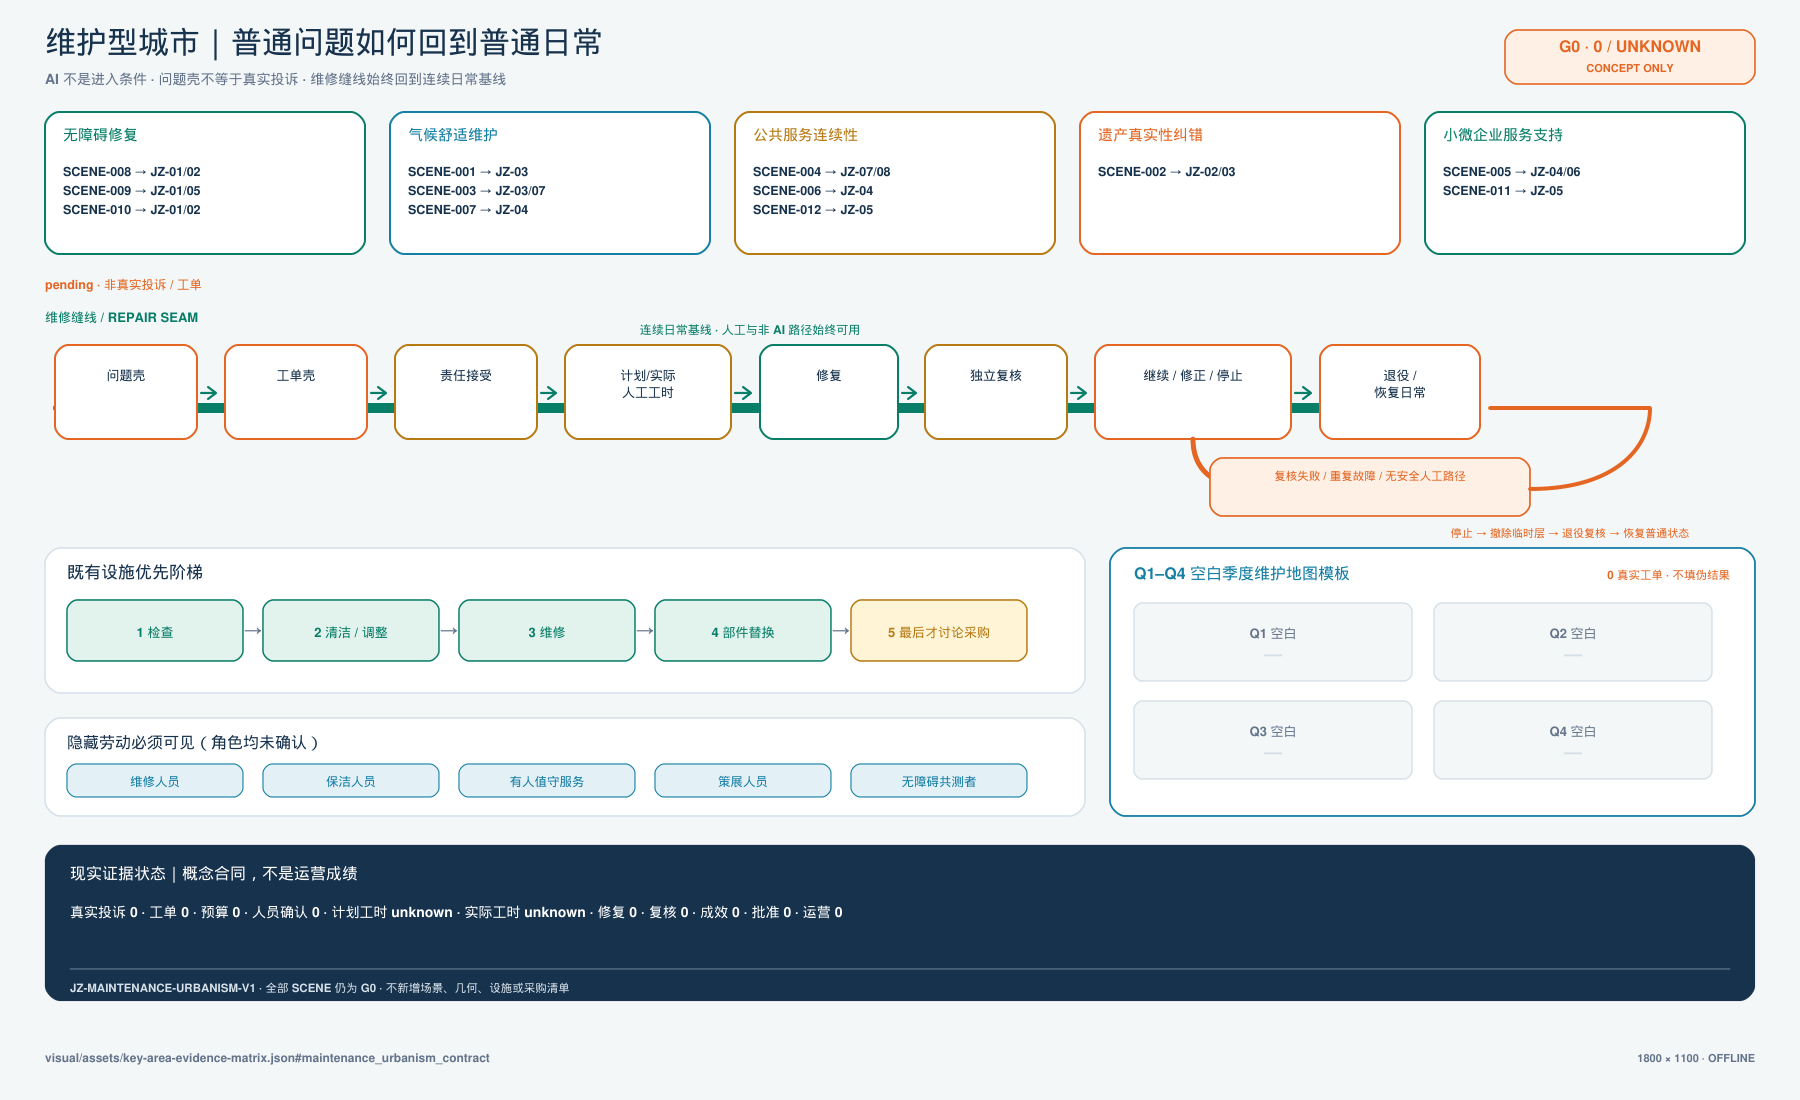
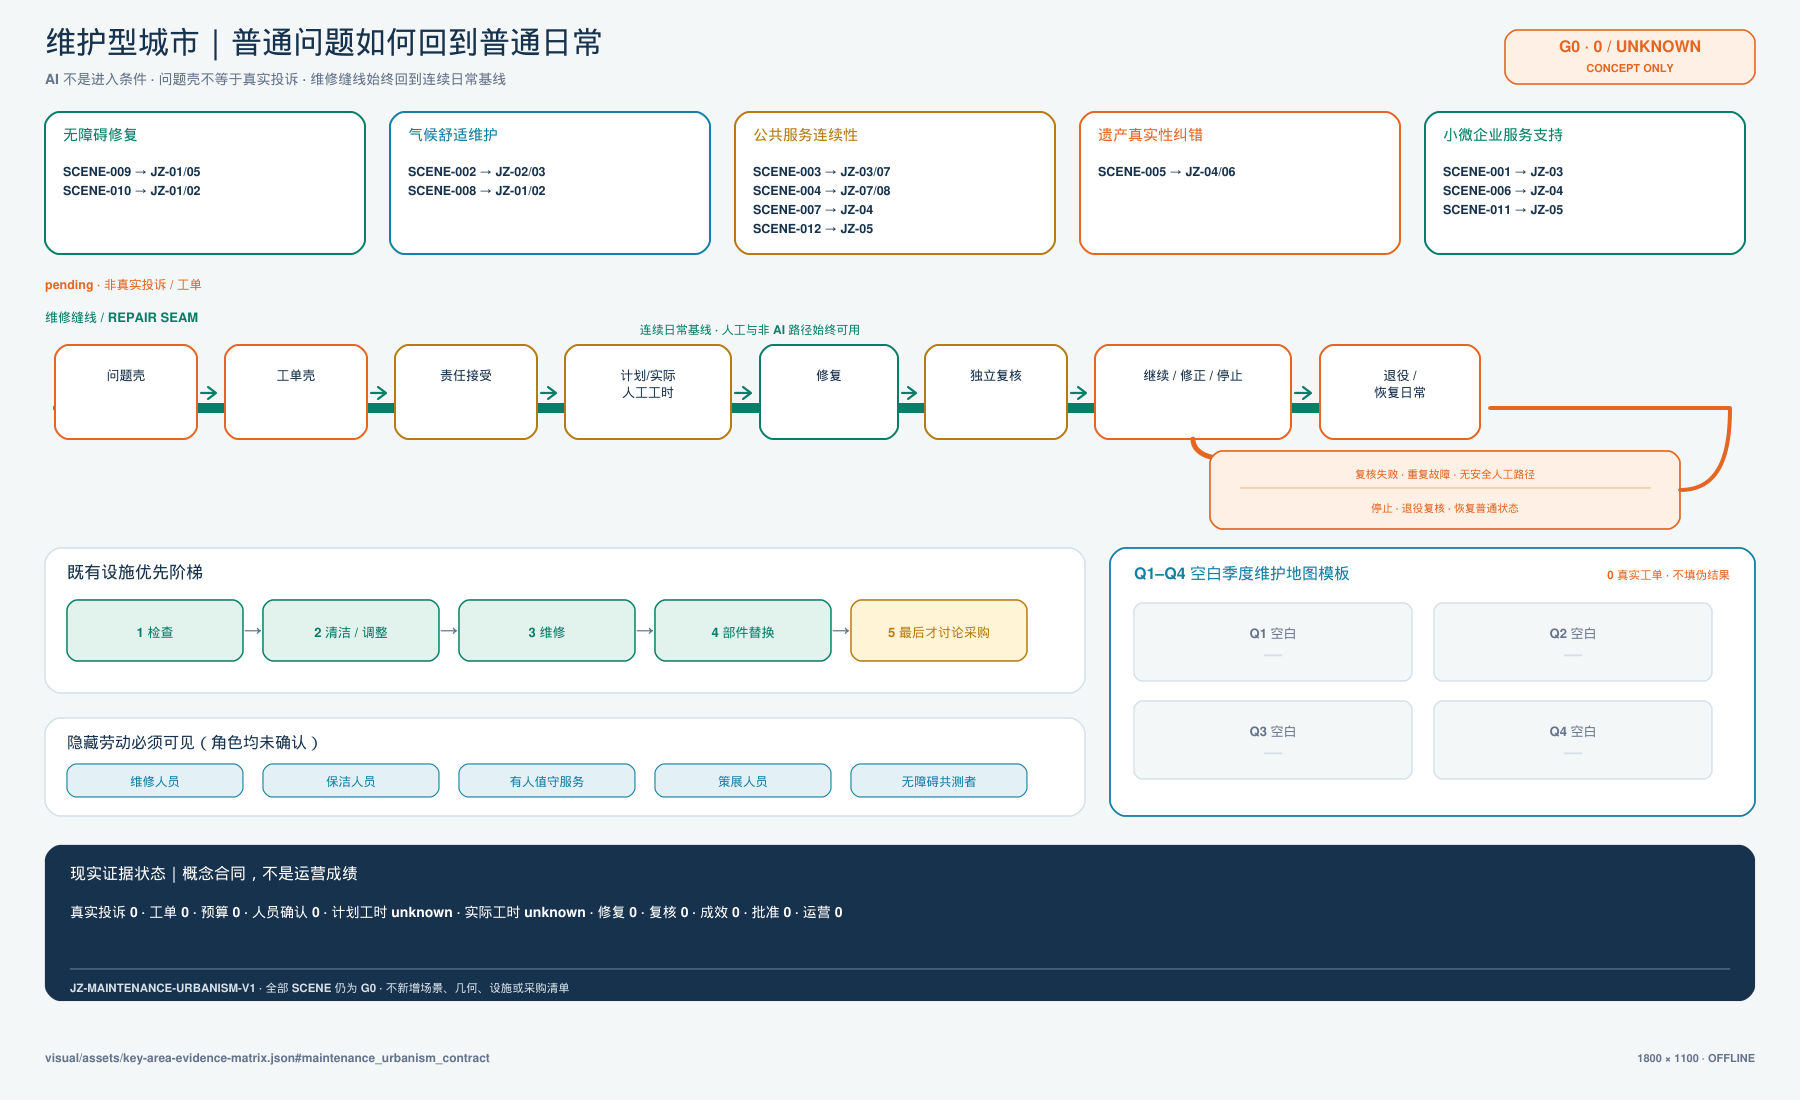
Fix Jingzhang maintenance visual review issues

diff --git a/submissions/xyh202131/jingzhang-ai-pilgrimage-belt/proposal.en.md b/submissions/xyh202131/jingzhang-ai-pilgrimage-belt/proposal.en.md
@@ -349,11 +349,11 @@ This round adds no scene, project, or spatial object. It places the existing 12 
 
 | Maintenance task family | Existing scenes → existing projects | Maintenance focus |
 |---|---|---|
-| Accessibility repair | `SCENE-008` → `JZ-01`/`JZ-02`; `SCENE-009` → `JZ-01`/`JZ-05`; `SCENE-010` → `JZ-01`/`JZ-02` | Everyday issues, accessibility co-testing, break-point repair, and the non-AI route |
-| Climate-comfort upkeep | `SCENE-001` → `JZ-03`; `SCENE-003` → `JZ-03`/`JZ-07`; `SCENE-007` → `JZ-04` | Upkeep of comfort, energy, and environmental conditions; sensors or equipment are not presented as outcomes |
-| Public-service continuity | `SCENE-004` → `JZ-07`/`JZ-08`; `SCENE-006` → `JZ-04`; `SCENE-012` → `JZ-05` | Published failures, staffed handoff, service restoration, and independent recheck |
-| Heritage-authenticity correction | `SCENE-002` → `JZ-02`/`JZ-03` | Curatorial recheck of sources, narratives, and correction records |
-| Small-business service support | `SCENE-005` → `JZ-04`/`JZ-06`; `SCENE-011` → `JZ-05` | Problem clinic, staffed service, and understandable support for small operators |
+| Accessibility repair | `SCENE-009` → `JZ-01`/`JZ-05`; `SCENE-010` → `JZ-01`/`JZ-02` | Everyday issues, accessibility co-testing, break-point repair, and the non-AI route |
+| Climate-comfort upkeep | `SCENE-002` → `JZ-02`/`JZ-03`; `SCENE-008` → `JZ-01`/`JZ-02` | Upkeep of comfort, energy, and environmental conditions; sensors or equipment are not presented as outcomes |
+| Public-service continuity | `SCENE-003` → `JZ-03`/`JZ-07`; `SCENE-004` → `JZ-07`/`JZ-08`; `SCENE-007` → `JZ-04`; `SCENE-012` → `JZ-05` | Published failures, staffed handoff, service restoration, and independent recheck |
+| Heritage-authenticity correction | `SCENE-005` → `JZ-04`/`JZ-06` | Curatorial recheck of sources, narratives, and correction records |
+| Small-business service support | `SCENE-001` → `JZ-03`; `SCENE-006` → `JZ-04`; `SCENE-011` → `JZ-05` | Problem clinic, staffed service, and understandable support for small operators |
 
 The loop starts when an issue enters, but it must not be presented as a collected real complaint: every record is only a `pending` issue shell, followed by a work-order shell, responsibility acceptance, planned/actual human hours, existing-facility inspection, clean/adjust, repair, repairable-component replacement, independent recheck, and a continue/correct/stop decision. Procurement may be considered only after inspection, cleaning or adjustment, repair, and component replacement prove insufficient. Lifecycle cost, repairability, component availability, retirement, and return-to-ordinary-baseline fields remain explicit, while no budget, procurement, personnel, hours, repair, or effect is invented [metric:maintenance_real_complaint_count] [metric:maintenance_actual_human_hours].
 
